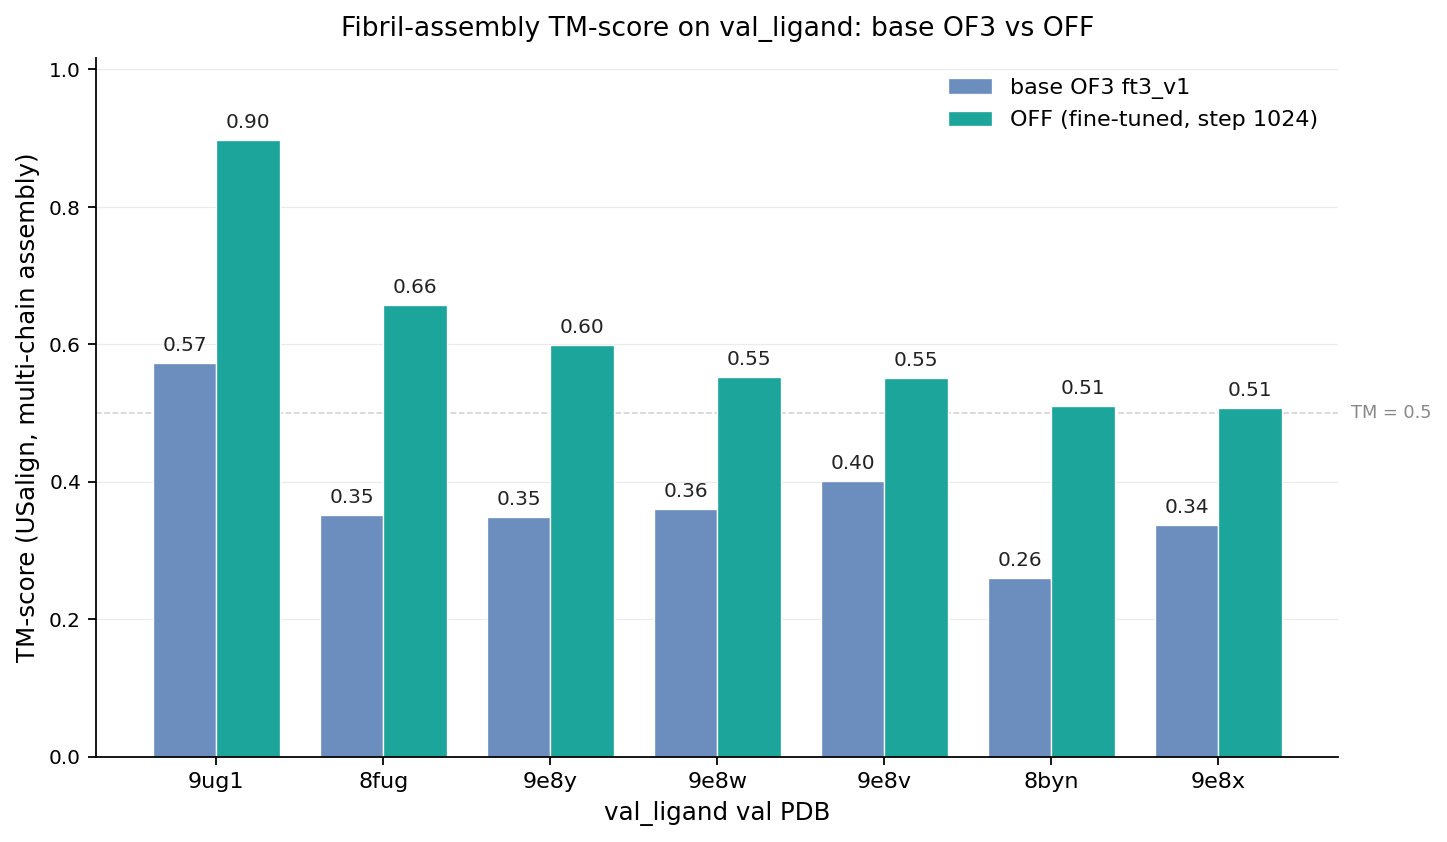
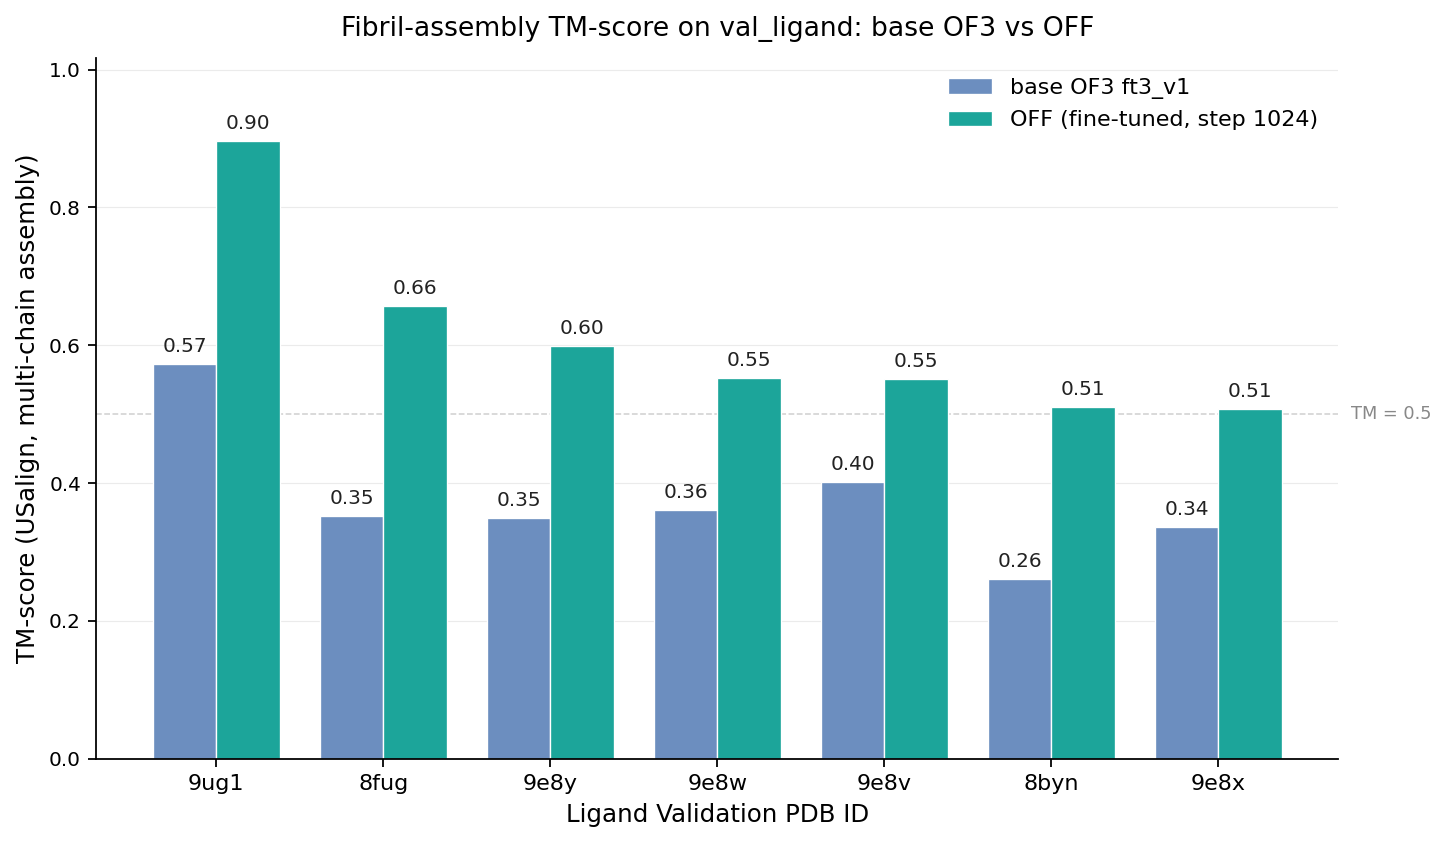
docs: friendlier bar-chart x-axis labels; drop sub-captions below charts
Bar charts:
- val_ligand:     x-axis 'val_ligand val PDB'     → 'Ligand Validation PDB ID'
- val_unique_seq: x-axis 'val_unique_seq val PDB' → 'Unique Sequence Validation PDB ID'

Wired through plot_val_compare_tm.py via a small XAXIS_LABELS map so
re-renders stay reproducible (private repo).

README:
- Drop the two <sub>…</sub> captions sitting directly under the bar
  charts. The mean-TM summary table immediately below carries the
  numeric summary; the captions were redundant prose.

diff --git a/README.md b/README.md
@@ -36,13 +36,9 @@ We are also interested in the model's capability to **predict ligand poses bound
   <img src="figures/val_ligand_tm.png" alt="Per-PDB fibril-assembly TM-score on val_ligand: base OF3 vs OFF (paired bars)" width="780" />
 </p>
 
-<sub>Per-PDB fibril-assembly TM-score on `val_ligand` (USalign multi-chain complex mode). OFF scores higher than base OF3 on every PDB in the set; per-PDB margins range from +0.15 to +0.32.</sub>
-
 <p align="center">
   <img src="figures/val_unique_seq_tm.png" alt="Per-PDB fibril-assembly TM-score on val_unique_seq: base OF3 vs OFF (paired bars)" width="780" />
 </p>
-
-<sub>Per-PDB fibril-assembly TM-score on `val_unique_seq` (USalign multi-chain complex mode). `val_unique_seq` holds out the protein sequence entirely, so the model has never seen these chains at train time — the harder set. OFF scores higher than base OF3 on every PDB; per-PDB margins range from +0.07 (9ljb, 1010 residues) to +0.25 (9cww, 9qlu).</sub>
 
 **Mean TM-score per dataloader (USalign, multi-chain complex):**
 
